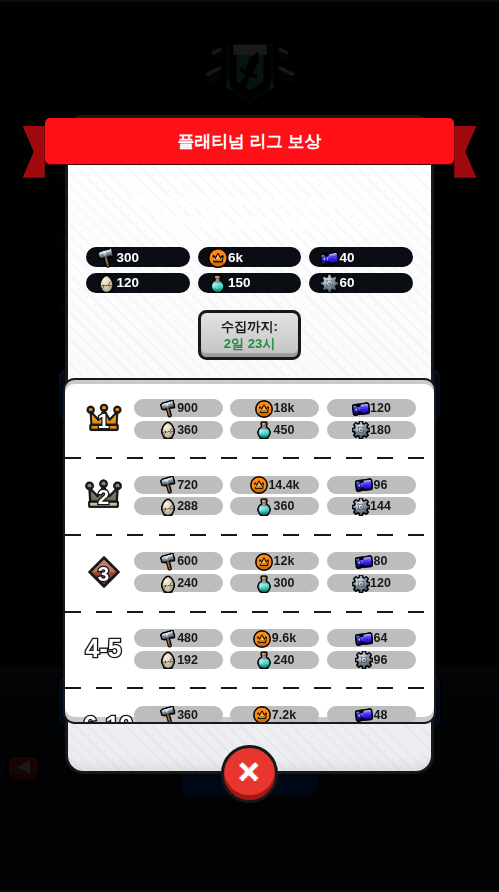
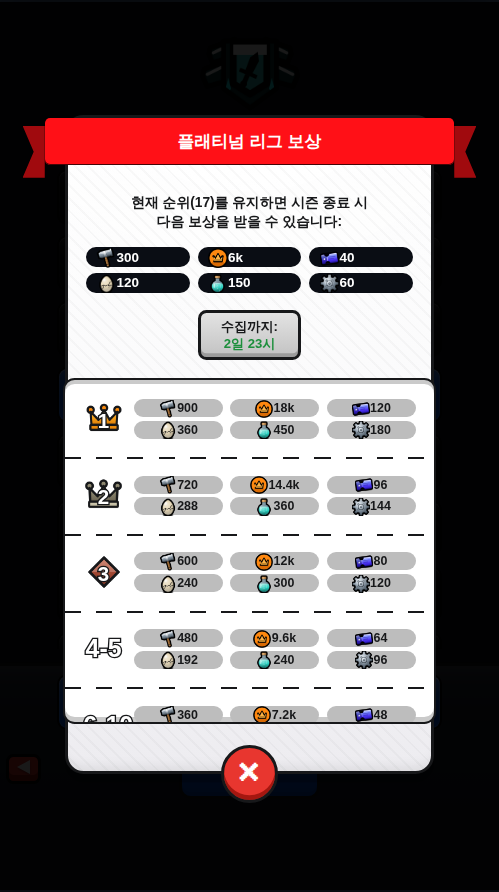
리그 보상 설명 문단 가시화(백문백지) + tech-node 캡처 시드 현행화(해금 규칙 이행분) + 채점용 재캡처·합성 갱신 (ui-ratio-audit)
Claude-Session: https://claude.ai/code/session_01EJPyPPvCkDp4nEfpsx176M

diff --git a/web/tools/shot-screens.js b/web/tools/shot-screens.js
@@ -56,7 +56,18 @@ const SCREENS = [
     ['tech-node', '042605', `(() => {
         const id = TechTree.nid('extraEgg', 4);
         S.tech = S.tech || {};
-        for (let t = 1; t < 4; t++) S.tech[TechTree.nid('extraEgg', t)] = 5;   // 부모 사슬 해금
+        // 🚨 해금 규칙이 '같은 타입 세로 레일' → '바로 위 행 노드 전부'로 바뀌어(techtree-node-logic),
+        //    옛 시드(extraEgg 1~3만 5레벨)로는 대상이 잠긴 채 [잠김] 팝업(짧은 카드)이 찍힌다 —
+        //    비평가 채점 1차가 그 낡은 캡처를 보고 '카드 높이 Δ14%p'를 냈다. probe-tn-dom 과 같은
+        //    처방: 조상 전체를 1레벨로 펴서 원본(연구 진행 중)과 같은 상태를 만든다.
+        const openUp = (nid2, depth) => {
+            if (depth > 12) return;
+            for (const p of TechTree.parentsOf(nid2)) {
+                if (!(S.tech[p] >= 1)) S.tech[p] = 1;
+                openUp(p, depth + 1);
+            }
+        };
+        openUp(id, 0);
         S.tech[id] = 1;
         S.techResearch = { id, endsAt: U.now() + (13 * 60 + 30) * 60e3 };      // 원본 '13시 30분'
         UI.switchTab('summon'); UI.switchSummonSub('tech');

diff --git a/web/css/style.css b/web/css/style.css
@@ -2205,7 +2205,10 @@ body {
 /* 노치는 **바깥 변**에서 파고든다(안쪽 변은 본체에 붙는 직선) */
 .league-reward-banner::before { right: 100%; clip-path: polygon(100% 0, 0 0, 50% 50%, 0 100%, 100% 100%); }
 .league-reward-banner::after { left: 100%; clip-path: polygon(0 0, 100% 0, 50% 50%, 100% 100%, 0 100%); }
-.lgr-card .league-reward-desc { color: #fff; }
+/* 🚨 흰 글자는 원본의 **어두운 남색 패널** 전제였다 — 지금 클론 카드 바탕은 흰 종이라 문단이
+   통째로 안 보였다(전수 검증 채점 1차 A: '설명 문단 블록 부재'로 잡힘 — 부재가 아니라 백문백지).
+   스킨 패스가 패널을 원본처럼 어둡게 바꾸면 그때 흰 글자로 되돌릴 것. */
+.lgr-card .league-reward-desc { color: #17181a; }
 .league-reward-desc { text-align: center; font-size: .82rem; font-weight: 700; margin: 0 0 .5rem; line-height: 1.4; }
 .league-reward-grid { display: grid; grid-template-columns: 1fr 1fr 1fr; gap: .3rem .5rem; margin-bottom: .55rem; }
 .league-reward-grid span {
